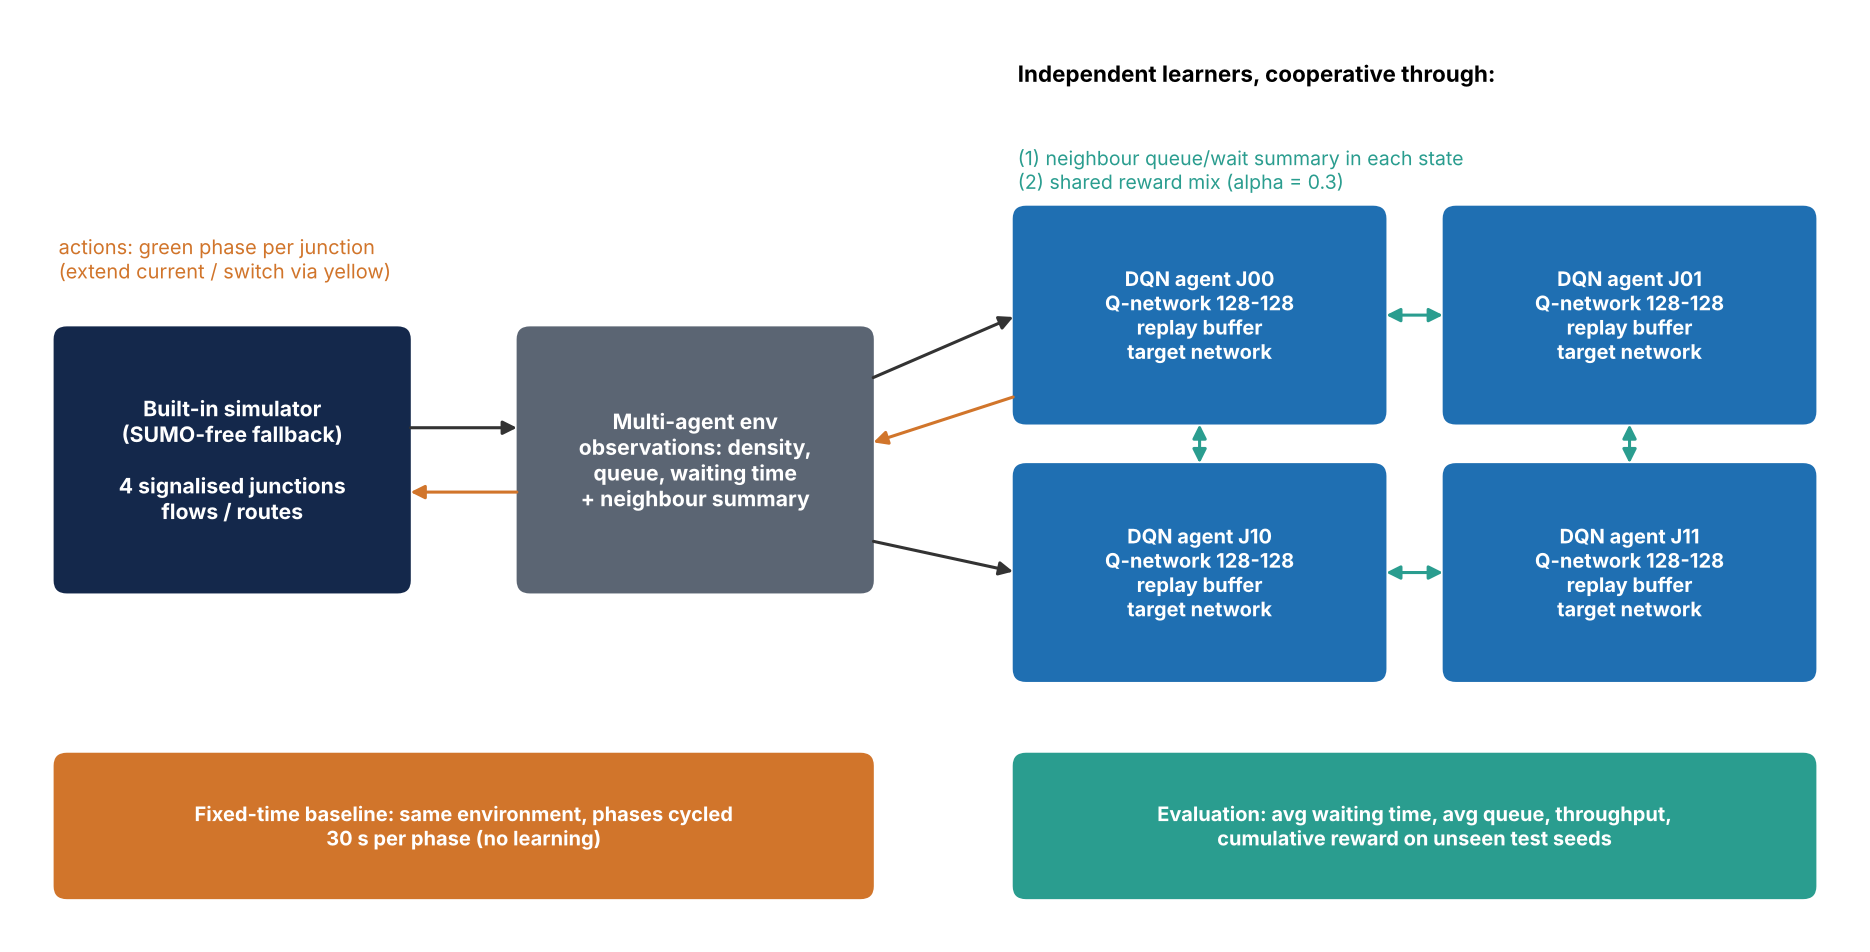
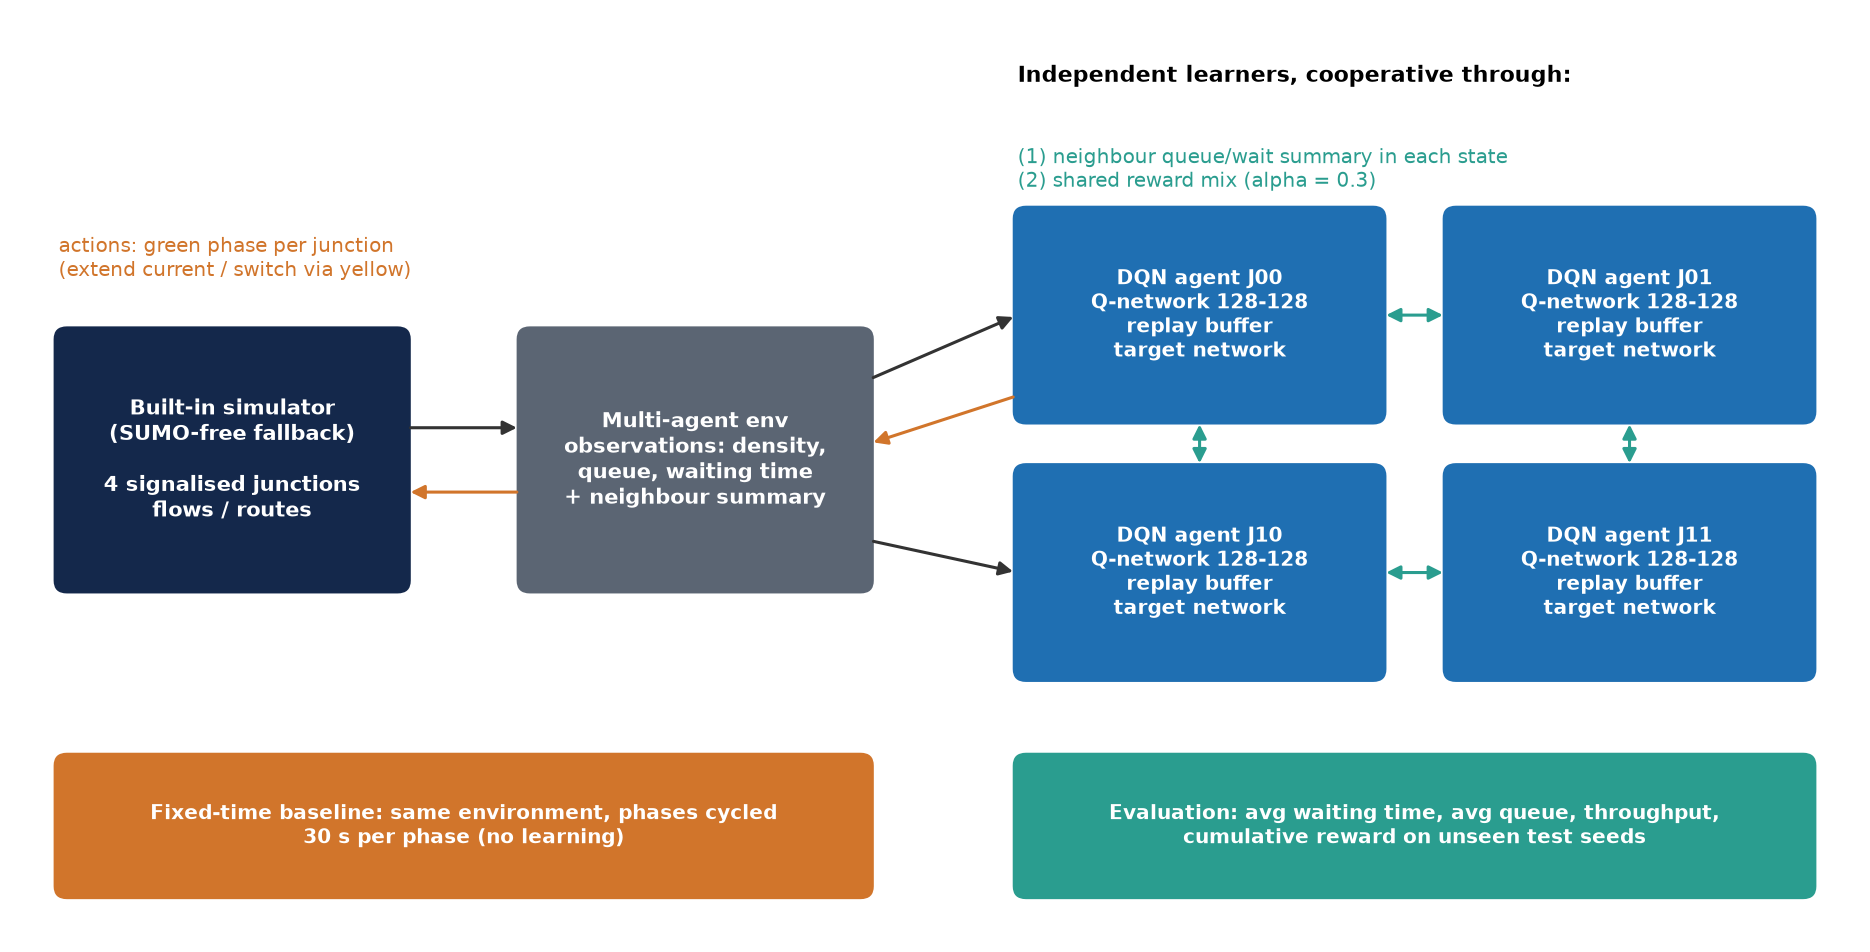
Add team details to README, PDF and slides

diff --git a/make_report.py b/make_report.py
@@ -37,6 +37,25 @@ PDF_NAME = "Traffic_Signal_Coordination_Complete_Submission.pdf"
 PPT_NAME = "Five_Slide_Presentation.pptx"
 
 
+# =============================================================================== team
+def load_team():
+    """Reads team.json (edit it with your names). Empty fields are simply left out."""
+    try:
+        t = json.loads((ROOT / "team.json").read_text(encoding="utf-8"))
+    except Exception:
+        t = {}
+    members = [x for x in t.get("members", []) if str(x.get("name", "")).strip()]
+    return {"label": str(t.get("project_label", "")).strip(), "course": str(t.get("course", "")).strip(),
+            "team_name": str(t.get("team_name", "")).strip(), "members": members}
+
+
+def team_line(team):
+    if not team["members"]:
+        return ""
+    names = ", ".join(x["name"] + (f" ({x['roll']})" if str(x.get("roll", "")).strip() else "") for x in team["members"])
+    return ("Team " + team["team_name"] + ": " if team["team_name"] else "Team: ") + names
+
+
 # =============================================================================== data
 def load(out):
     out = Path(out)
@@ -69,7 +88,8 @@ def facts(out):
         better = (D[k] < F[k]) if lower_better else (D[k] > F[k])
         rows.append(dict(key=k, label=label, fmt=fmt, fixed_m=fm, fixed_s=fs, dqn_m=dm, dqn_s=ds,
                          change=pct(dm, fm), wins=int(better.sum()), n=len(D), lower_better=lower_better))
-    return dict(meta=meta, res=res, summ=summ, train=train, val=val, rows=rows, fname=fname,
+    team = load_team()
+    return dict(team=team, meta=meta, res=res, summ=summ, train=train, val=val, rows=rows, fname=fname,
                 F=F, D=D, scale=sc, backend=meta["backend"], impl=meta["agent_impl"],
                 n_test=len(D), n_train=len(train))
 
@@ -266,6 +286,12 @@ def build_pptx(specs, path, f):
                     c = tbl.cell(ri, ci)
                     c.text = v
                     c.text_frame.paragraphs[0].runs[0].font.size = Pt(13)
+        if i == 1 and team_line(f["team"]):
+            tb = s.shapes.add_textbox(Inches(0.5), Inches(6.45), Inches(7.0), Inches(0.5))
+            tb.text_frame.word_wrap = True
+            r = tb.text_frame.paragraphs[0].add_run()
+            r.text = team_line(f["team"])
+            r.font.size, r.font.bold, r.font.color.rgb = Pt(13), True, rgb(NAVY)
         ft = s.shapes.add_textbox(Inches(0.5), Inches(7.08), Inches(12.3), Inches(0.35))
         r = ft.text_frame.paragraphs[0].add_run()
         r.text = f"Traffic-signal coordination | Project 10 | results backend: {backend_label(f)} | slide {i} of 5"
@@ -329,6 +355,11 @@ class SlideFlowable(Flowable):
                 c.drawString(8.0 * s, Y(ty + 0.32), a)
                 c.drawString(9.9 * s, Y(ty + 0.32), b)
                 ty += 0.48
+        if sp.get("no") == 1 and team_line(self.f["team"]):
+            tp = P(team_line(self.f["team"]), ParagraphStyle("tl", fontName="Helvetica-Bold", fontSize=13 * k,
+                                                              leading=16 * k, textColor=colors.HexColor(NAVY)))
+            tw, th = tp.wrap(7.0 * s, H)
+            tp.drawOn(c, 0.5 * s, Y(6.45) - th)
         c.setFillColor(colors.HexColor(GREY))
         c.setFont("Helvetica", 10 * k)
         c.drawString(0.5 * s, Y(7.25), f"Traffic-signal coordination | Project 10 | results backend: "
@@ -429,6 +460,19 @@ FILE_ROLE = {
 }
 
 
+def cover_team(f, st, W):
+    t = f["team"]
+    items = []
+    head = " | ".join(x for x in [t["label"], t["course"], ("Team: " + t["team_name"]) if t["team_name"] else ""] if x)
+    if head:
+        items.append(Paragraph(head.replace("&", "&amp;"), ParagraphStyle("ch", fontName="Helvetica-Bold", fontSize=10.5,
+                                                                          leading=14, textColor=colors.HexColor(NAVY))))
+    if t["members"]:
+        rows = [["Name", "Roll number"]] + [[x["name"], str(x.get("roll", ""))] for x in t["members"]]
+        items += [Spacer(1, 3 * mm), tbl(rows, [W * 0.55, W * 0.3], fs=9, align_right_from=None)]
+    return items
+
+
 def build_pdf(out, f, specs, figs):
     st = styles()
     m, rows = f["meta"], {r["key"]: r for r in f["rows"]}
@@ -436,20 +480,21 @@ def build_pdf(out, f, specs, figs):
     W = A4[0] - 36 * mm
     S = []
     # ---------------------------------------------------------------- cover
-    S += [Spacer(1, 38 * mm), P("Traffic-Signal Coordination with Multi-Agent Deep Q-Networks", ParagraphStyle(
+    S += [Spacer(1, 22 * mm), P("Traffic-Signal Coordination with Multi-Agent Deep Q-Networks", ParagraphStyle(
         "ct", fontName="Helvetica-Bold", fontSize=26, leading=32, textColor=colors.HexColor(NAVY))),
         Spacer(1, 6 * mm),
         P("Project 10 - Real-World RL Homework Projects, Unit 5", ParagraphStyle("cs", fontName="Helvetica", fontSize=13, textColor=colors.HexColor(BLUE))),
         Spacer(1, 4 * mm),
         P("Multiple agents control the signals of four interconnected intersections to reduce average waiting time.",
           ParagraphStyle("cs2", fontName="Helvetica", fontSize=11, leading=15, textColor=colors.HexColor(GREY))),
-        Spacer(1, 14 * mm), Image(figs["network"], width=82 * mm, height=82 * 5.2 / 6 * mm), Spacer(1, 10 * mm),
+        Spacer(1, 6 * mm)] + cover_team(f, st, W) + [
+        Spacer(1, 6 * mm), Image(figs["network"], width=60 * mm, height=60 * 5.2 / 6 * mm), Spacer(1, 5 * mm),
         tbl([["Control approaches", "Fixed-time (baseline) vs independent Multi-Agent DQN"],
              ["Simulation backend for results", backend_label(f)],
              ["DQN implementation used", "PyTorch" if f["impl"] == "torch" else "NumPy (identical algorithm; PyTorch version also provided)"],
              ["Date generated", datetime.date.today().strftime("%d %B %Y")],
-             ["Contents", "Problem formulation | Architecture | Complete Python code | Training methodology | "
-                          "Learning curves & results | 5 slides | Limitations & conclusion | References"]],
+             ["Contents", P("Problem formulation | Architecture | Complete Python code | Training methodology | "
+                          "Learning curves & results | 5 slides | Limitations & conclusion | References", st["small"])]],
             [48 * mm, W - 48 * mm], header=False, fs=8.8, align_right_from=None),
         Spacer(1, 6 * mm), P(backend_note(f), st["note"]), NextPageTemplate("body"), PageBreak()]
     # ---------------------------------------------------------------- TOC
@@ -743,7 +788,23 @@ def write_readme(f, out):
     for r in f["rows"]:
         fm = r["fmt"].format
         lines.append(f"| {r['label']} | {fm(r['fixed_m'])} | {fm(r['dqn_m'])} | {r['change']:+.1f}% |")
+    t = f["team"]
+    sub = " | ".join(x for x in [t["label"], t["course"]] if x)
+    team_md = ""
+    if t["members"]:
+        team_md = ("## Team" + (f" - {t['team_name']}" if t["team_name"] else "") + "\n\n| Name | Roll number |\n|---|---|\n"
+                   + "\n".join(f"| {x['name']} | {x.get('roll', '')} |" for x in t["members"]) + "\n\n")
     txt = f"""# Traffic-Signal Coordination with Multi-Agent DQN (Project 10)
+{('**' + sub + '**') if sub else ''}
+
+{team_md}## Deliverables (all in `results/`)
+| Deliverable | File |
+|---|---|
+| Complete PDF (formulation, architecture, code, methodology, results, slides, limitations, references) | [Traffic_Signal_Coordination_Complete_Submission.pdf](results/Traffic_Signal_Coordination_Complete_Submission.pdf) |
+| Five presentation slides | [Five_Slide_Presentation.pptx](results/Five_Slide_Presentation.pptx) |
+| Experiment results (CSV) | [Experiment_Results.csv](results/Experiment_Results.csv), [summary.csv](results/summary.csv) |
+| Learning curves | [Learning_Curves.png](results/Learning_Curves.png) |
+| Source code | `run_all.py`, `tsc/`, `check_setup.py`, `make_report.py` |
 
 Four signalised intersections (2 x 2 grid) are controlled by **four independent Double-DQN agents**
 and compared with **fixed-time control**. Stack: Python 3.13, Eclipse SUMO 1.28, TraCI, PyTorch, NumPy, Pandas, Matplotlib.

diff --git a/README.md b/README.md
@@ -1,4 +1,23 @@
 # Traffic-Signal Coordination with Multi-Agent DQN (Project 10)
+**Project 10, Unit 5: Real-World RL Homework Projects**
+
+## Team
+
+| Name | Roll number |
+|---|---|
+| Sanskritha Vaidya | 100523729059 |
+| Shanmukhi Kondam | 100523729090 |
+| Prem Kumar Batharaju | 100523729006 |
+| Likhitha Vadluri | 100523729058 |
+
+## Deliverables (all in `results/`)
+| Deliverable | File |
+|---|---|
+| Complete PDF (formulation, architecture, code, methodology, results, slides, limitations, references) | [Traffic_Signal_Coordination_Complete_Submission.pdf](results/Traffic_Signal_Coordination_Complete_Submission.pdf) |
+| Five presentation slides | [Five_Slide_Presentation.pptx](results/Five_Slide_Presentation.pptx) |
+| Experiment results (CSV) | [Experiment_Results.csv](results/Experiment_Results.csv), [summary.csv](results/summary.csv) |
+| Learning curves | [Learning_Curves.png](results/Learning_Curves.png) |
+| Source code | `run_all.py`, `tsc/`, `check_setup.py`, `make_report.py` |
 
 Four signalised intersections (2 x 2 grid) are controlled by **four independent Double-DQN agents**
 and compared with **fixed-time control**. Stack: Python 3.13, Eclipse SUMO 1.28, TraCI, PyTorch, NumPy, Pandas, Matplotlib.
